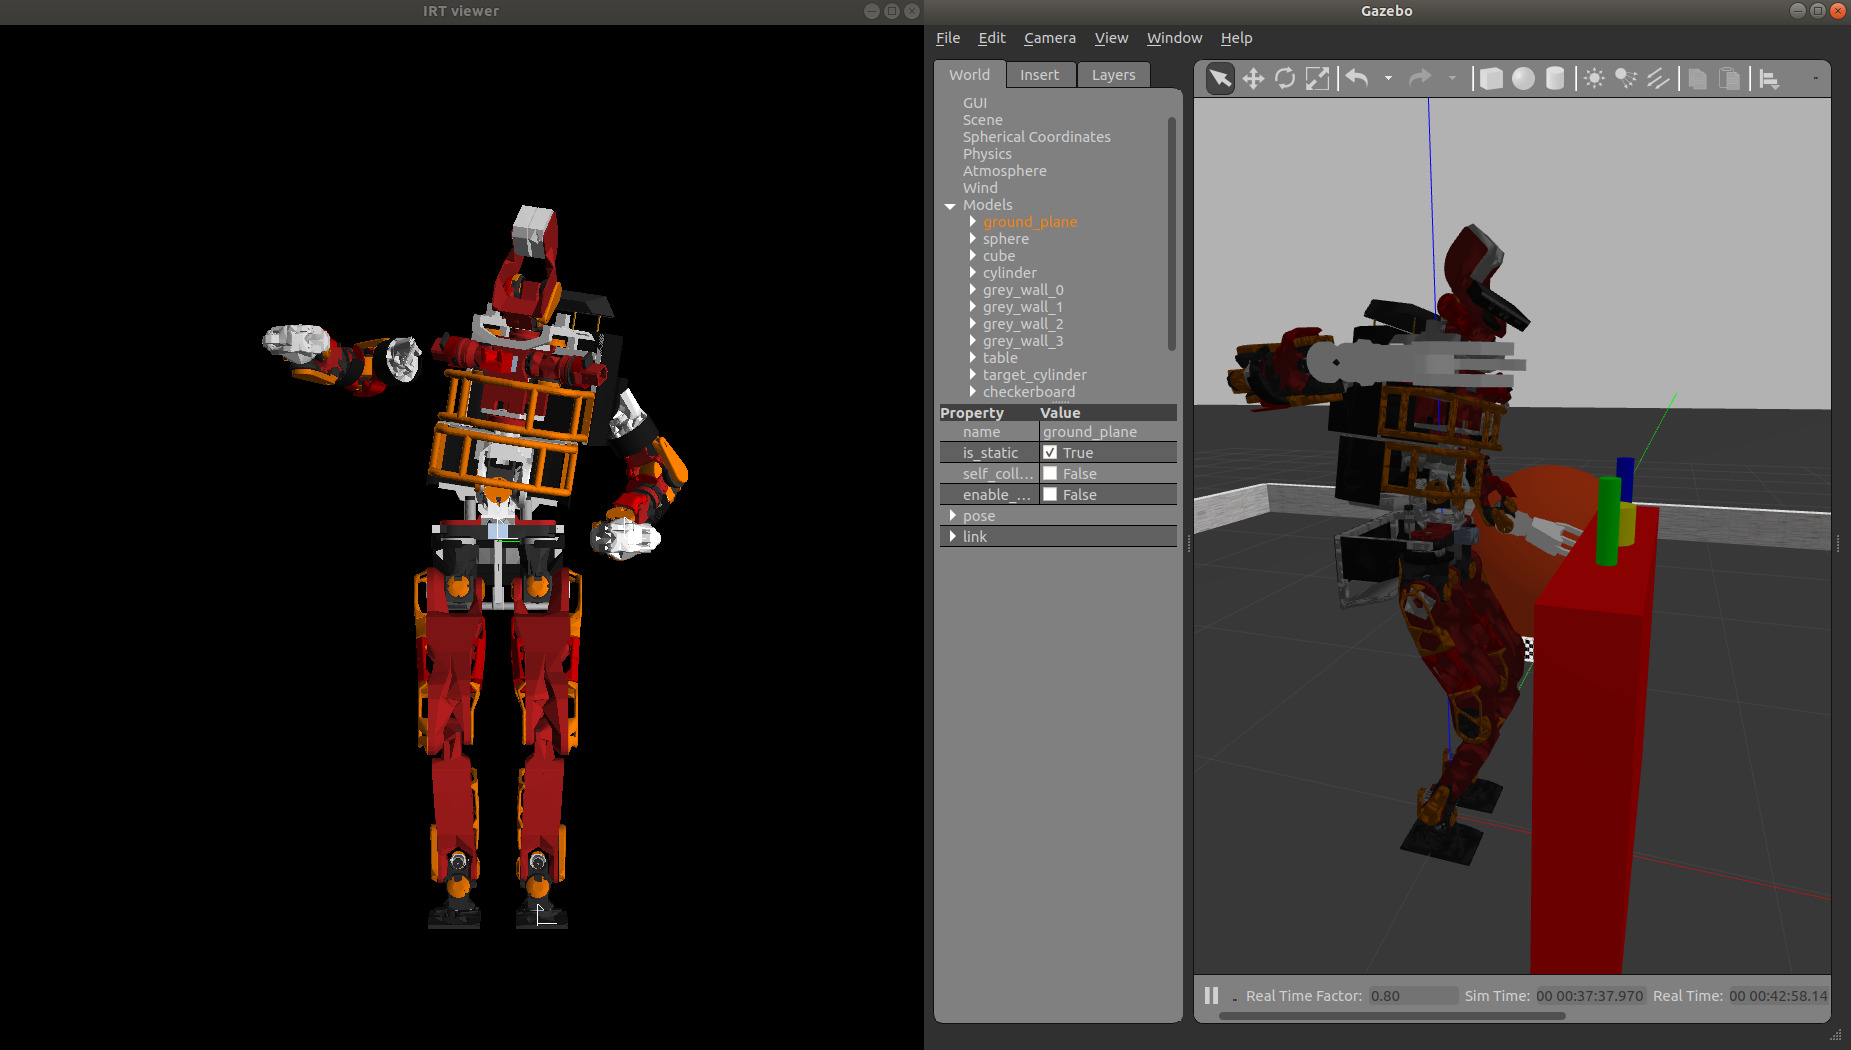
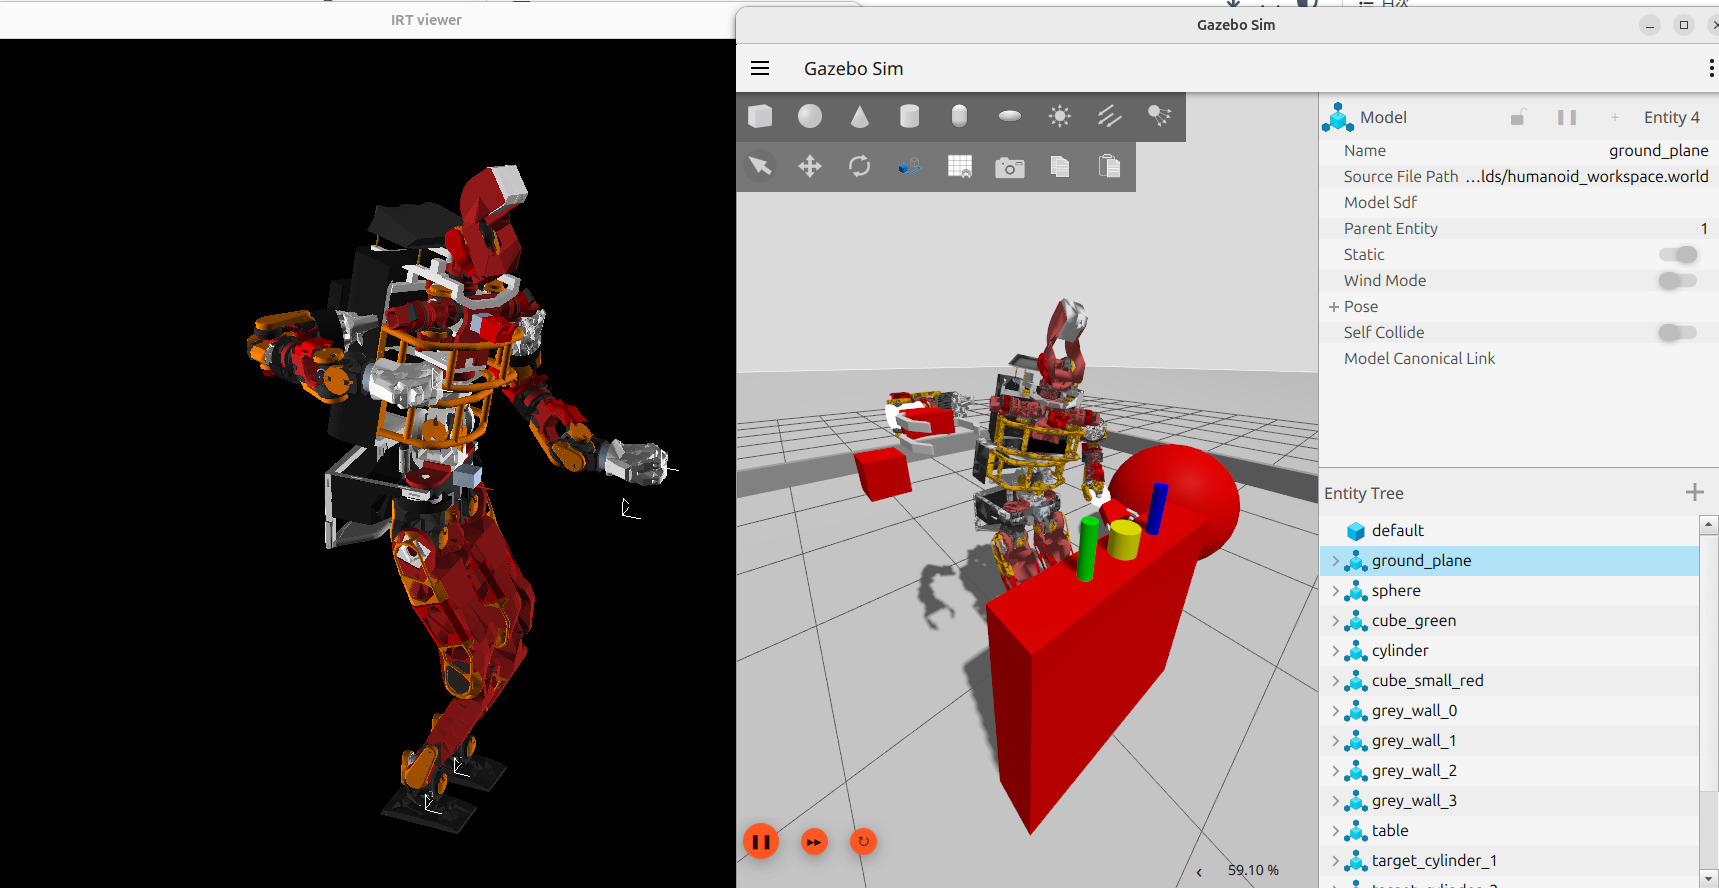
Fixed day2's jaxon kadai

diff --git a/docs/robot-programming-2-2025.md b/docs/robot-programming-2-2025.md
@@ -781,112 +781,40 @@ Jedyの`follow joint trajectory`コントローラーを別々に動かすプロ
 他の班のJedyと協力して片方を動かすと片方のJedyが動くプログラムを作成してみよ．
 
 
+## ヒューマノイドロボットJAXONのシミュレーション（発展課題）
+
+本章では，Gazeboシミュレーション上でヒューマノイドロボットJAXONを動かす方法を説明する．
+本演習ではROS 2でGazeboシミュレーションを起動し，EusLispから制御する際にはros1_bridgeを用いてROS 1とROS 2を橋渡しする．
+JAXONのGazeboシミュレーションはROS 2パッケージ`cart_humanoid_ros2`で提供されている．
+[JaxonのシミュレーションでリアルタイムIKを動かす](tips/realtime-ik.md)を参照のこと．
+
 ## 課題3(発展)
-
-に従って`Gazebo`シミュレーション上のヒューマノイドロボット`JAXON`を動かしてみよ．
-
-## 課題4(発展)
 
 `EusLisp`の`robot`インターフェース`*ri*`は双腕移動台車ロボットだけでなくヒューマノイド`JAXON`にも用意されており
 移動台車アームロボットとヒューマノイド`JAXON`は`*ri*`に共通のメソッドを送信することで制御することができる．
-また，手先の目標位置を"ik\_＜ターゲット名＞\_tgt"という`topic`を`ROS`ノード間で通信しそれを目標値としたIKを解いてロボットの姿勢を決定しているためロボット固有の属性（関節の数や関節軸の向き等）にほとんど依存しないシステムの上で動作している．
+また，手先の目標位置を`ik_＜ターゲット名＞_tgt`という`topic`を`ROS`ノード間で通信しそれを目標値としたIKを解いてロボットの姿勢を決定しているためロボット固有の属性（関節の数や関節軸の向き等）にほとんど依存しないシステムの上で動作している．
 従って本日の演習の`launch`ファイルと`euslisp`のファイルを少し書き換えるだけで移動台車アームロボットと`JAXON`を同じようなプログラムでIKによる制御を行うことができるということである．
 以下の手順でと同様に手先位置で実機またはシミュレーション上のアームロボットの手先をリアルタイムに動かしてみよ．
 
-### ヒューマノイドロボット`JAXON`のリアルタイムIK（発展）
+## 課題4(発展)
 
-に従ってシミュレーション上でヒューマノイド`JAXON`を動かしてみよ．
-
-### リアルタイムIKによる移動台車アームロボットの制御（発展）
-
-の前半と同様に"`rostopic pub ...`"コマンドで`publish`された`topic`に対して実機やシミュレーション上のアームロボットの手先位置を動かしてみよ．
-（まずはシミュレーションで動作確認を行ってから実機で実行することをオススメする．）
-
-<div class="screen">
-
-1.  `cart_humanoid`/euslisp/realtime-ik-sample.lの`cart_humanoid`依存の部分を双腕移動台車ロボット用に書き換える必要がある．
-
-2.  双腕移動台車ロボットに合わせて＜ロボット名＞\_interface.lをloadし\*ri\*を作成する必要がある．
-
-3.  `cart_humanoid`/euslisp/realtime-ik-sample.lの"ik\_＜ターゲット名＞\_tgt"のtopicのようなIKを解く目標位置を与えるtopicをsubscribeする必要がある．
-
-4.  双腕移動台車ロボットのロボットモデル\*jedy\*の`:inverse-kinematics`メソッドでIKを解き，ロボットインターフェース\*ri\*に関節角度指令を送る必要がある．
-
-5.  双腕移動台車ロボットのアームに適した逆運動学の手先目標位置はロボット座標系で下記に示した付近にある．
-
-    <div class="screen">
-
-    ``` console
-    $ `rostopic` pub /ik_arm_tgt geometry_msgs/PoseStamped "header:
-      seq: 0
-      stamp:
-        secs: 0
-        nsecs: 0
-      frame_id: ''
-    pose:
-      position:
-        x: 0.35
-        y: 0.0
-        z: 0.25
-      orientation:
-        x: 0.0
-        y: 0.0
-        z: 0.0
-        w: 1.0"
-    ```
-
-    </div>
-
-</div>
+以下の手順でと同様にカメラで認識した手先位置で実機またはシミュレーション上のアームロボットの手先をリアルタイムに動かしてみよ．
 
 ## 課題5(発展)
 
-以下の手順でと同様にカメラで認識した手先位置で実機またはシミュレーション上のアームロボットの手先をリアルタイムに動かしてみよ．
-（のリアルタイムIKを用いるので先に課題2に取り組むことをを勧めする．）
-
-### ヒューマノイドロボットJAXONの簡易人体モーションキャプチャ（発展）
-
-に従ってミュレーション上で簡易人体モーションキャプチャによりヒューマノイドロボットJAXONを動かしてみよ．
-
-### 簡易人体モーションキャプチャの色抽出フィルタのパラメータチューニング
-
-のsample_head_arm_skin_detect.launchは肌の色や背景，照明環境に依存するため
-自分の環境でより良く動作するようにパラメータチューニングし動作確認せよ．
-
-### 簡易人体モーションキャプチャによる移動台車アームロボットの制御（発展）
-
-と同様にカメラで認識した手先位置で実機またはシミュレーション上のアームロボットの手先をリアルタイムに動かしてみよ．
-
-<div class="screen">
-
-1.  のヒントでは逆運動学の目標手先位置をik_arm_tgtというトピック名でsubscribeするようにした．従って`cart_humanoid`のsample_head_arm_skin_detect.launchで起動しているskin_ellipse_area_to_ik_tgt.pyノードがカメラで認識した手先または顔の位置をik_arm_tgtという名前でpublishするようにできればよい．
-
-2.  `roslaunch` dxl_armed_turtlebot
-    sample_head_arm_skin_detect.launchすると左手の検出位置がik_arm_tgtというtopicでpublishされる．
-
-3.  rvizを正しく表示するにはrviz左部DisplaysでGlobal OptionsのFixed
-    Frameを`base_footprint`にする必要がある．（rvizが正しく表示されていない状態でもアームロボットをモーションキャプチャにより動かすことはできる．）
-
-</div>
-
-## 課題6(発展)
-
-機械情報冬学期演習「デジタルファブリケーション」で自分が設計した部品の立体形状を`STL`ファイルで保存していると思うが
-その`STL`をGazeboシミュレーション内に出現させよ．
+機械情報冬学期演習「デジタルファブリケーション」で自分が設計した部品の立体形状を`STL`ファイルで保存していると思うがその`STL`をGazeboシミュレーション内に出現させよ．
 
 :::{figure} fig/my_model.jpg
 :align: center
 :name: fig:sample_avatar
 
-課題2参考
+JaxonのgazeboにSTLファイルを表示させている例
 :::
 
-`cart_humanoid`_gazebo.launchで起動するGazeboのworldファイルはrobot-programming/`cart_humanoid`/worlds/humanoid_workspace.worldであり
-その中の以下の部分をコメントインし
+`cart_humanoid_ros2`パッケージの`cart_humanoid_gazebo.launch.py`で起動するGazeboのworldファイルは[robot-programming/cart_humanoid_ros2/worlds/humanoid_workspace.world](https://github.com/jsk-enshu/robot-programming/blob/master/cart_humanoid_ros2/worlds/humanoid_workspace.world)でありその中の以下の部分をコメントインし
 
-<div class="screen">
 
-``` bash
+```{console-block} xml
 <!-- my_model -->
   <model name="my_model" >
     <pose>1.0 -0.4 1 0 0 0</pose>
@@ -896,53 +824,26 @@ Jedyの`follow joint trajectory`コントローラーを別々に動かすプロ
   </model>
 ```
 
-</div>
-
-以下のmy_mesh.stlを置き換え，model.sdf内のscaleなどを調整すると良い．
+以下の`my_mesh.stl`を置き換え，`model.sdf`内のscaleなどを調整すると良い．
 
 ```{code-block} console
-$ roscd cart_humanoid/worlds/model/my_model/
+$ cd ~/ros2_ws/src/robot-programming/cart_humanoid_ros2/worlds/model/my_model/
 $ ls
 model.config  model.sdf  my_mesh.stl
 ```
 
-※`STL`の用意や，読み込みがどうしても出来ない人はhumanoid_workspace.world内の「my
-primitive model」に関する部分をコメントインして
-プリミティブな幾何形状の組み合わせによる自作モデルを作成しよう
+※STLの用意や読み込みがどうしても出来ない人はhumanoid_workspace.world内のmy primitive modelに関する部分をコメントインしてプリミティブな幾何形状の組み合わせによる自作モデルを作成しよう
+
+## 課題6(発展)
+
+EusLispのrobotインターフェースに実装されている`inverse-kinematics`機能([参考](tips/euslisp-ik.md))を用いて
+任意の物体にアームで触れるプログラムを作成せよ．（※可能であればグリッパを駆使して物体をピックアップできるとなお良い）
 
 ## 課題7(発展)
 
-EusLispのrobotインターフェースに実装されているinverse-kinematics機能(参考)を用いて
-任意の物体にアームで触れるプログラムを作成せよ．
-（※可能であればグリッパを駆使して物体をピックアップできるとなお良い）  
+二日目の演習でJedyからJaxonを動かす様子をみたと思う．実機のJedyを動かしシミュレーターのJaxonを動かせるようにしてみよ．
 
 ## 課題8(発展)
-
-人体姿勢の検出ブログラムを，肌色検出だけでなく，その他の画像処理手法を併用して性能向上させよ．
-ROSにはそのために利用できるツールが多く存在するのでいろいろ検索してみると良い．  
-<http://wiki.ros.org/opencv_apps>
-
-## 課題9(発展)
-
-`cart_humanoid`の脚部の操縦に挑戦せよ．  
-以下のようにオプションをつけると空中に固定されたベースリンクがXY平面内(地面に平行)のみ自由に動けるようになる．
-
-```{code-block} console
-$ roslaunch cart_humanoid cart_humanoid_gazebo.launch fix_base_link:=false
-```
-
-`realtime-ik-sample.l`を用いて直接足先位置を操縦するでもよし
-`cart_humanoid-interface.l`内に実装されている以下の簡易的な歩行機能を周期的に呼ぶのでも良い．
-
-<div class="screen">
-
-``` lisp
-irteusgl$ send *ri* :send-cmd-vel-raw 0.1 0 0
-```
-
-</div>
-
-## 課題10(発展)
 
 これまでの授業や演習で学んだロボットプログラミング技法を組み合わせ，
 自由な発想でロボットのデモプログラムを作成せよ．

diff --git a/docs/tips/realtime-ik.md b/docs/tips/realtime-ik.md
@@ -4,22 +4,63 @@
 「特定の処理が決められた時間内に完了することが保証されている」ことを指すが，
 ここでの「リアルタイムIK」は，「逆運動学計算を高速に周期実行し，入力指令に対し即時追従し続ける」という広義な意味合いであることに注意されたい．
 
-<div class="screen">
+本演習ではROS 2でGazeboシミュレーションを起動し，EusLispから制御する際にはros1_bridgeを用いてROS 1とROS 2を橋渡しする．
 
-``` bash
-$ roslaunch cart_humanoid cart_humanoid_gazebo.launch
-$ rosrun cart_humanoid realtime-ik-sample.l
+## 起動手順
+
+以下の4つのターミナルを用いて，それぞれのプログラムを起動する．
+
+### ターミナル1: ROS 1側でroscoreの起動
+
+```{code-block} console
+# ターミナル1: roscoreの起動
+$ source /opt/ros/one/setup.bash
+$ roscore
 ```
 
-</div>
+### ターミナル2: ROS 2側でGazeboシミュレーションの起動
 
-とすると，irtviewerが立ち上がると同時にGazebo内のロボットが準備姿勢になる．
+```{code-block} console
+# ターミナル2: Gazeboシミュレーションの起動
+$ source /opt/ros/jazzy/setup.bash
+$ source ~/ros2_ws/install/setup.bash
+$ export ROS_AUTOMATIC_DISCOVERY_RANGE=LOCALHOST
+$ export ROS_DOMAIN_ID=11
+$ ros2 launch cart_humanoid_ros2 cart_humanoid_gazebo.launch.py
+```
+
+**注意**: `ROS_AUTOMATIC_DISCOVERY_RANGE=LOCALHOST`を設定することで，ROS 2のDDS検出範囲をローカルホストに制限し，ネットワーク上の他のROS 2ノードとの干渉を防ぐ．
+
+### ターミナル3: ROS 1とROS 2のブリッジ
+
+```{code-block} console
+# ターミナル3: ros1_bridgeの起動
+$ source /opt/ros/one/setup.bash
+$ source /opt/ros/jazzy/setup.bash
+$ source ~/ros2/bridge/install/setup.bash
+$ export ROS_AUTOMATIC_DISCOVERY_RANGE=LOCALHOST
+$ export ROS_DOMAIN_ID=11
+$ ros2 run ros1_bridge dynamic_bridge --bridge-all-topics
+```
+
+ros1_bridgeが正常に起動すると，ROS 1のtopicとROS 2のtopicが自動的に変換されるようになる．
+
+### ターミナル4: EusLispプログラムの起動
+
+```{code-block} console
+# ターミナル4: EusLispプログラムの起動
+$ source ~/ros_ws/devel/setup.bash
+$ rosparam set /use_sim_time true
+$ roscd cart_humanoid/euslisp
+$ roseus realtime-ik-sample.l
+```
+
+これらを起動すると，irtviewerが立ち上がると同時にGazebo内のロボットが準備姿勢になる．
 この状態で，以下のようにコマンドラインからtopicをpublishしてやると，
-irtviewer内のロボットモデルとGazebo内のロボットが即時追従する().
+irtviewer内のロボットモデルとGazebo内のロボットが即時追従する．
 
-<div class="screen">
-
-``` bash
+```{code-block} console
+$ source /opt/ros/one/setup.bash
 $ rostopic pub /ik_rarm_tgt geometry_msgs/PoseStamped "header:
   seq: 0
   stamp:
@@ -38,42 +79,33 @@ pose:
     w: 1.0"
 ```
 
-</div>
+コマンド入力時は適宜Tab補完を利用するとよい
 
-(※pdfをコピペするとインデントがくずれて正しいトピックを送れないのでコマンド入力時は適宜Tab補完を利用するとよい).
-
-<figure id="fig:ik_pub" data-latex-placement="h">
-<div class="center">
-<img src="../fig/ik_pub.jpg" />
-</div>
-<figcaption>リアルタイムIKにより，rostopic
-pubした瞬間，目標値に追従しようとする</figcaption>
-</figure>
-
-realtime-ik-sample.lの内部では，
-
-<div class="screen">
-
-``` lisp
-(ros::subscribe "ik_larm_tgt" geometry_msgs::PoseStamped #'send self :larm-cb)
-  (ros::subscribe "ik_rarm_tgt" geometry_msgs::PoseStamped #'send self :rarm-cb)
-  (ros::subscribe "ik_lleg_tgt" geometry_msgs::PoseStamped #'send self :lleg-cb)
-  (ros::subscribe "ik_rleg_tgt" geometry_msgs::PoseStamped #'send self :rleg-cb)
-  (ros::subscribe "ik_head_tgt" geometry_msgs::PoseStamped #'send self :head-cb)
+```{figure} ../fig/ik_pub.jpg
+---
+name: fig:ik_pub
+---
+リアルタイムIKにより，`rostopic pub`した瞬間，目標値に追従しようとする
 ```
 
-</div>
+[realtime-ik-sample.l](https://github.com/jsk-enshu/robot-programming/blob/master/cart_humanoid/euslisp/realtime-ik-sample.l)の内部では，
 
-のようにlarm(左手)〜rleg(右足),
-head(この実装ではカメラ注視点)に対する指令値を
-geometry_msgs::PoseStamped型のTopicとしてsubscribeしている．
+```lisp
+(ros::subscribe "ik_larm_tgt" geometry_msgs::PoseStamped #'send self :larm-cb)
+(ros::subscribe "ik_rarm_tgt" geometry_msgs::PoseStamped #'send self :rarm-cb)
+(ros::subscribe "ik_lleg_tgt" geometry_msgs::PoseStamped #'send self :lleg-cb)
+(ros::subscribe "ik_rleg_tgt" geometry_msgs::PoseStamped #'send self :rleg-cb)
+(ros::subscribe "ik_head_tgt" geometry_msgs::PoseStamped #'send self :head-cb)
+```
+
+のように`larm`(左手)〜`rleg`(右足),
+`head`(この実装ではカメラ注視点)に対する指令値を
+`geometry_msgs::PoseStamped`型のTopicとしてsubscribeしている．
 
 そして，指令値をlarm-tgt〜head-tgtに格納した後，
 以下のようにして周期的に逆運動学を解くと同時に実ロボットに姿勢を送信している．
 
-<div class="screen">
-
-``` lisp
+```lisp
 (ros::rate 10) ;; 10Hz
 (while (ros::ok)
   (send *cart_humanoid* :inverse-kinematics (list larm-tgt rarm-tgt lleg-tgt rleg-tgt) ;; 四肢の目標座標
@@ -99,48 +131,7 @@ geometry_msgs::PoseStamped型のTopicとしてsubscribeしている．
 )
 ```
 
-</div>
-
 このように，煩雑な逆運動学計算をROSノードとしてモジュール化(i.e.
 カプセル化，ブラックボックス化)することで，
-これ以降は様々なGUIや入力デバイスから/ik\_\*\_tgtにgeometry_msgs::PoseStamped型でデータを入力するだけで，
+これ以降は様々なGUIや入力デバイスから`/ik_*_tgt`に`geometry_msgs::PoseStamped`型でデータを入力するだけで，
 ヒューマノイドロボットの全身姿勢を容易に操作できるインターフェースとなる．
-
-例えば，以下のようにclick_ik_rviz.launchを追加で起動する．
-click_ik_rviz.launch は予め表示Topic等を設定したRvizの起動と，
-RViz内でユーザーがマウスクリックした点(/clicked_point
-geometry_msgs::PointStamped ※RViz標準機能)
-を/ik_rarm_tgtと/ik_head_tgt(geometry_msgs::PoseStamped)に変換するノードを起動している．
-
-<div class="screen">
-
-``` bash
-$ roslaunch cart_humanoid cart_humanoid_gazebo.launch
-$ rosrun cart_humanoid realtime-ik-sample.l
-$ roslaunch cart_humanoid click_ik_rviz.launch
-```
-
-</div>
-
-RViz内の「Publish
-Point」ボタンをクリックしてから，目標にしたいPointCloud上の一点をクリックすると，
-/clicked_point ひいては /ik_rarm_tgt と /ik_head_tgt が Publish
-され，Gazebo内のロボットが対象に手を伸ばす().
-ただし，操縦にはコツが要るので，動作確認ができれば良い．
-(Gazebo内のオブジェクト配置を初期化するなら「Ctrl+Shift+R」，ロボットの姿勢を初期化するならrealtime-ik-sample.lを上げ直すとよい)
-
-<figure id="fig:click_ik" data-latex-placement="h">
-<div class="center">
-<img src="../fig/click_ik.jpg" />
-</div>
-<figcaption>「Publish
-Point」をクリックしてから対象物のPointCloudをクリックすると，Gazebo内のロボットが対象に手を伸ばす</figcaption>
-</figure>
-
-<div class="exercise">
-
-ここまでのプログラムが問題なく実行できることを確認せよ．  
-（IKを解いた姿勢がおかしい，物体と接触して動かない，等は問題ないものとする．）
-
-</div>
-
